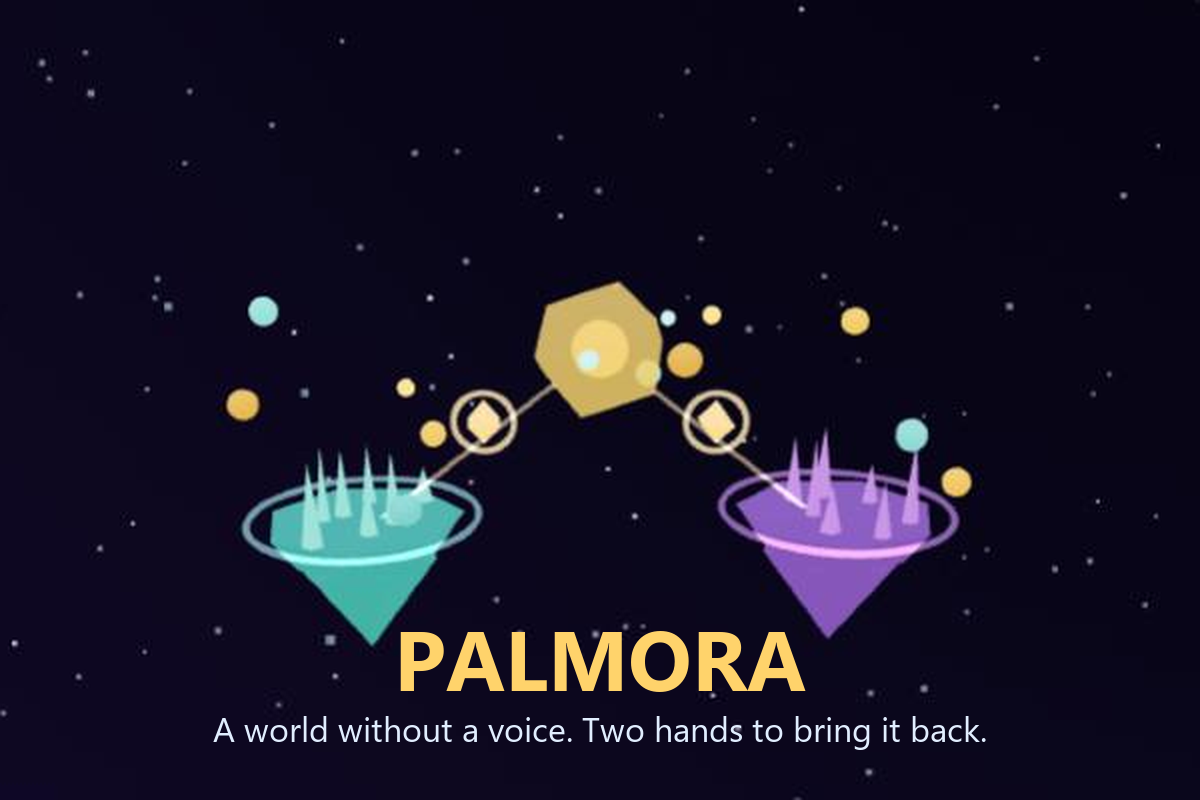
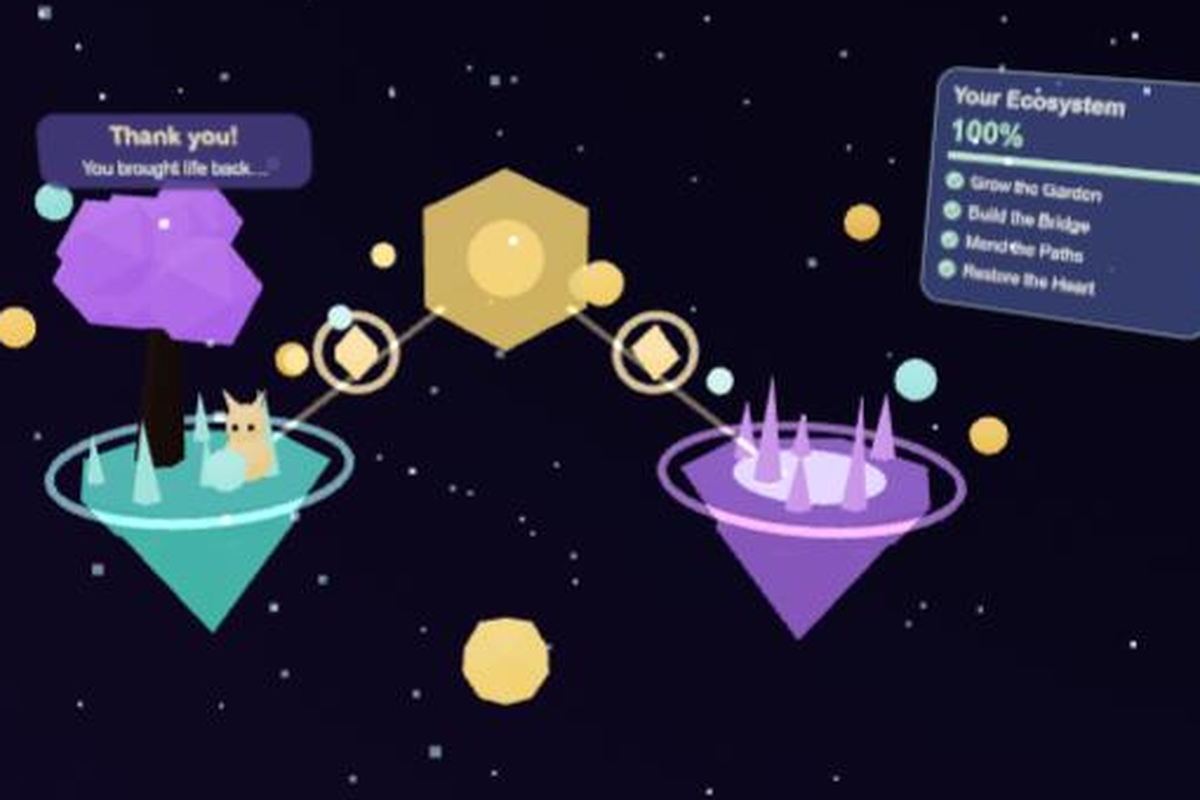
Living world visuals: tree, pond, creature, ecosystem panel; mixed reality mode

diff --git a/src/palmora-game.ts b/src/palmora-game.ts
@@ -39,6 +39,7 @@ import {
   CanvasTexture,
   Color,
   ConeGeometry,
+  CircleGeometry,
   CylinderGeometry,
   Group,
   IcosahedronGeometry,
@@ -203,13 +204,18 @@ export class PalmoraSystem extends createSystem({
   private replay!: Entity;
   private replayMesh!: Mesh;
   private dust!: Points;
+  private tree!: Group;
+  private pond!: MeshBasicMaterial;
+  private creature!: Group;
+  private bubble!: Panel;
+  private eco!: Panel;
+  private ecoKey = '';
 
   private tmp = new Vector3();
   private tmp2 = new Vector3();
   private dummy = new Object3D();
 
   init(): void {
-    this.scene.background = new Color(0x06051a);
     // The default sky is a pale gradient; turn it into a deep indigo void.
     this.queries.domes.subscribe('qualify', (e: Entity) => this.darkenDome(e));
     for (const e of this.queries.domes.entities) this.darkenDome(e);
@@ -223,6 +229,7 @@ export class PalmoraSystem extends createSystem({
     this.buildBridge();
     this.buildNodes();
     this.buildPalmGlows();
+    this.buildLife();
 
     this.hint = makePanel(0.42, 0.11, new Vector3(0, 1.3, -0.72));
     this.world.createTransformEntity(this.hint.mesh);
@@ -431,6 +438,178 @@ export class PalmoraSystem extends createSystem({
     this.world.createTransformEntity(this.spark);
   }
 
+  /** The tree, pond, creature and ecosystem panel that make the world feel alive. */
+  private buildLife(): void {
+    // A glowing violet tree that grows as the first island blooms.
+    this.tree = new Group();
+    const bark = new MeshStandardMaterial({ color: 0x5a3b2a, roughness: 0.8, flatShading: true });
+    const trunk = new Mesh(new CylinderGeometry(0.006, 0.011, 0.075, 6), bark);
+    trunk.position.y = 0.037;
+    trunk.rotation.z = 0.12;
+    this.tree.add(trunk);
+    const leaf = new MeshStandardMaterial({
+      color: 0xb58cff,
+      emissive: new Color(0x8a4dff),
+      emissiveIntensity: 0.9,
+      flatShading: true,
+    });
+    const blobs: [number, number, number, number][] = [
+      [0, 0.09, 0, 0.034],
+      [0.026, 0.08, 0.008, 0.026],
+      [-0.024, 0.082, -0.006, 0.027],
+      [0.006, 0.1, -0.02, 0.024],
+      [-0.008, 0.104, 0.02, 0.022],
+    ];
+    for (const [x, y, z, r] of blobs) {
+      const blob = new Mesh(new IcosahedronGeometry(r, 0), leaf);
+      blob.position.set(x, y, z);
+      this.tree.add(blob);
+    }
+    this.tree.position.set(-0.025, 0.015, -0.015);
+    this.tree.scale.setScalar(0.001);
+    this.islands[0].root.add(this.tree);
+
+    // A glowing pond on the second island.
+    this.pond = new MeshBasicMaterial({ color: 0x5ff2ff, transparent: true, opacity: 0, blending: AdditiveBlending, depthWrite: false });
+    const pond = new Mesh(new CircleGeometry(0.05, 24), this.pond);
+    pond.rotation.x = -Math.PI / 2;
+    pond.position.y = 0.0162;
+    this.islands[1].root.add(pond);
+
+    // A small glowing creature that appears once the first island is alive.
+    this.creature = new Group();
+    const skin = new MeshStandardMaterial({ color: 0xffe9b0, emissive: new Color(0xffb347), emissiveIntensity: 0.9 });
+    const body = new Mesh(new SphereGeometry(0.016, 16, 12), skin);
+    body.position.y = 0.016;
+    const head = new Mesh(new SphereGeometry(0.013, 16, 12), skin);
+    head.position.y = 0.038;
+    const earGeo = new ConeGeometry(0.005, 0.02, 6);
+    const earL = new Mesh(earGeo, skin);
+    earL.position.set(-0.009, 0.053, 0);
+    earL.rotation.z = 0.5;
+    const earR = new Mesh(earGeo, skin);
+    earR.position.set(0.009, 0.053, 0);
+    earR.rotation.z = -0.5;
+    const eyeMat = new MeshBasicMaterial({ color: 0x2a1a3a });
+    const eyeGeo = new SphereGeometry(0.0022, 8, 6);
+    const eyeL = new Mesh(eyeGeo, eyeMat);
+    eyeL.position.set(-0.005, 0.04, 0.012);
+    const eyeR = new Mesh(eyeGeo, eyeMat);
+    eyeR.position.set(0.005, 0.04, 0.012);
+    this.creature.add(body, head, earL, earR, eyeL, eyeR);
+    this.creature.position.set(0.035, 0.015, 0.025);
+    this.creature.visible = false;
+    this.islands[0].root.add(this.creature);
+
+    this.bubble = makePanel(0.17, 0.05, new Vector3(-0.2, 1.19, -0.4));
+    this.bubble.mesh.visible = false;
+    this.world.createTransformEntity(this.bubble.mesh);
+    this.drawBubble();
+
+    // "Your Ecosystem" progress panel to the right.
+    this.eco = makePanel(0.2, 0.17, new Vector3(0.38, 1.14, -0.5));
+    this.eco.mesh.rotation.y = -0.6;
+    this.world.createTransformEntity(this.eco.mesh);
+  }
+
+  private drawBubble(): void {
+    const { ctx, canvas, tex } = this.bubble;
+    const w = canvas.width;
+    const h = canvas.height;
+    ctx.clearRect(0, 0, w, h);
+    ctx.fillStyle = 'rgba(20, 16, 50, 0.85)';
+    ctx.beginPath();
+    ctx.roundRect(6, 6, w - 12, h - 12, 40);
+    ctx.fill();
+    ctx.textAlign = 'center';
+    ctx.fillStyle = '#ffd36b';
+    ctx.font = '600 44px sans-serif';
+    ctx.fillText('Thank you!', w / 2, h * 0.42);
+    ctx.fillStyle = '#e9f6ff';
+    ctx.font = '34px sans-serif';
+    ctx.fillText('You brought life back…', w / 2, h * 0.78);
+    tex.needsUpdate = true;
+  }
+
+  private progress(): number {
+    const parts = [
+      this.islands[0].restored ? 1 : Math.min(this.islands[0].seeds / SEEDS_NEEDED, 1),
+      this.islands[1].restored ? 1 : this.stage === 'bridge' ? this.wispT : 0,
+      this.stage === 'resonance' || this.stage === 'complete' ? 1 : this.nodes.filter((n) => n.locked).length / 2,
+      this.stage === 'complete' ? 1 : this.resonance,
+    ];
+    return parts.reduce((a, b) => a + b, 0) / parts.length;
+  }
+
+  private updateLife(dt: number): void {
+    const a = this.islands[0];
+    const grow = Math.max(0.001, Math.min(1, (a.bloom - 0.1) / 0.9));
+    this.tree.scale.setScalar(grow * 1.5);
+    this.tree.rotation.y += dt * 0.15;
+    this.pond.opacity = this.islands[1].bloom * (0.55 + Math.sin(this.clock * 2) * 0.1);
+
+    this.creature.visible = a.restored;
+    if (this.creature.visible) {
+      const hop = this.stage === 'complete' ? Math.abs(Math.sin(this.clock * 4)) * 0.012 : Math.sin(this.clock * 2) * 0.003;
+      this.creature.position.y = 0.015 + hop;
+    }
+    this.bubble.mesh.visible = this.stage === 'complete';
+
+    const pct = Math.round(this.progress() * 100);
+    const done = [a.restored, this.islands[1].restored, this.stage === 'resonance' || this.stage === 'complete', this.stage === 'complete'];
+    const key = `${pct}|${done.join()}`;
+    if (key === this.ecoKey) return;
+    this.ecoKey = key;
+
+    const { ctx, canvas, tex } = this.eco;
+    const w = canvas.width;
+    const h = canvas.height;
+    ctx.clearRect(0, 0, w, h);
+    ctx.fillStyle = 'rgba(16, 20, 48, 0.82)';
+    ctx.beginPath();
+    ctx.roundRect(6, 6, w - 12, h - 12, 36);
+    ctx.fill();
+    ctx.strokeStyle = 'rgba(127, 231, 255, 0.5)';
+    ctx.lineWidth = 3;
+    ctx.stroke();
+    ctx.fillStyle = '#e9f6ff';
+    ctx.font = '600 38px sans-serif';
+    ctx.textAlign = 'left';
+    ctx.fillText('Your Ecosystem', 36, 66);
+    ctx.fillStyle = '#5ff2a0';
+    ctx.font = '700 52px sans-serif';
+    ctx.fillText(`${pct}%`, 36, 132);
+    ctx.fillStyle = 'rgba(255,255,255,0.15)';
+    ctx.fillRect(36, 152, w - 72, 14);
+    ctx.fillStyle = '#5ff2a0';
+    ctx.fillRect(36, 152, (w - 72) * (pct / 100), 14);
+    const items = ['Grow the Garden', 'Build the Bridge', 'Mend the Paths', 'Restore the Heart'];
+    items.forEach((label, i) => {
+      const y = 214 + i * 54;
+      ctx.beginPath();
+      ctx.arc(52, y - 10, 15, 0, Math.PI * 2);
+      if (done[i]) {
+        ctx.fillStyle = '#5ff2a0';
+        ctx.fill();
+        ctx.strokeStyle = '#10142f';
+        ctx.lineWidth = 4;
+        ctx.beginPath();
+        ctx.moveTo(44, y - 10);
+        ctx.lineTo(50, y - 3);
+        ctx.lineTo(61, y - 17);
+        ctx.stroke();
+      } else {
+        ctx.strokeStyle = 'rgba(233,246,255,0.6)';
+        ctx.lineWidth = 3;
+        ctx.stroke();
+      }
+      ctx.fillStyle = done[i] ? '#e9f6ff' : 'rgba(233,246,255,0.7)';
+      ctx.font = '30px sans-serif';
+      ctx.fillText(label, 82, y);
+    });
+    tex.needsUpdate = true;
+  }
+
   private buildPalmGlows(): void {
     const geo = new SphereGeometry(0.035, 16, 12);
     const make = (): Mesh => {
@@ -558,6 +737,7 @@ export class PalmoraSystem extends createSystem({
     this.updatePalmGlows();
     this.dust.rotation.y += dt * 0.03;
     this.drawHint();
+    this.updateLife(dt);
   }
 
   // ---------- stage 1: Palm of Attraction ----------
